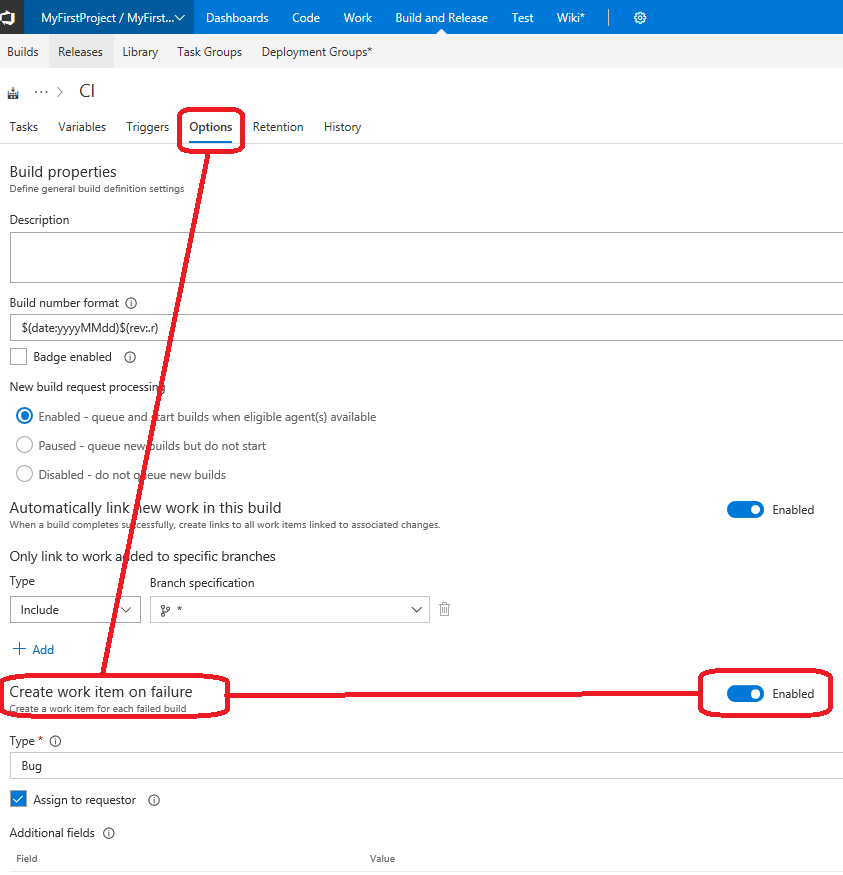
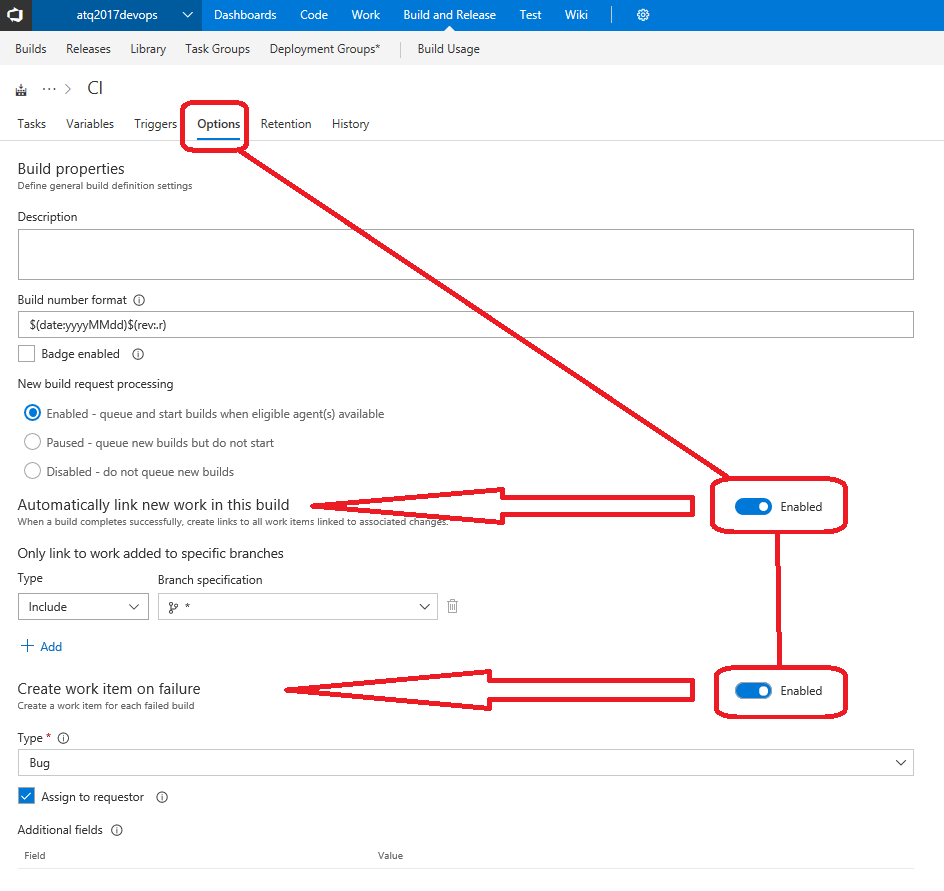
Update the CI definition and image for the options tab.

diff --git a/docs/Lab 2 - Continuous Integration/README.md b/docs/Lab 2 - Continuous Integration/README.md
@@ -49,7 +49,7 @@ https://raw.githubusercontent.com/mathieu-benoit/DevOpsOnAzureLab/master/docs/La
 
 ![VSTSBuild - CI Trigger](./imgs/VSTSBuild-CITrigger.PNG)
 
-6. Navigate to the **Options** tab of this Build definition page and enable the **Create work item on failure** section.
+6. Navigate to the **Options** tab of this Build definition page and enable the **Create work item on failure** and **Automatically link new work in this build** sections.
 
 ![VSTSBuild - Create WorkItem On Failure](./imgs/VSTSBuild-CreateWorkItemOnFailure.PNG)
 
